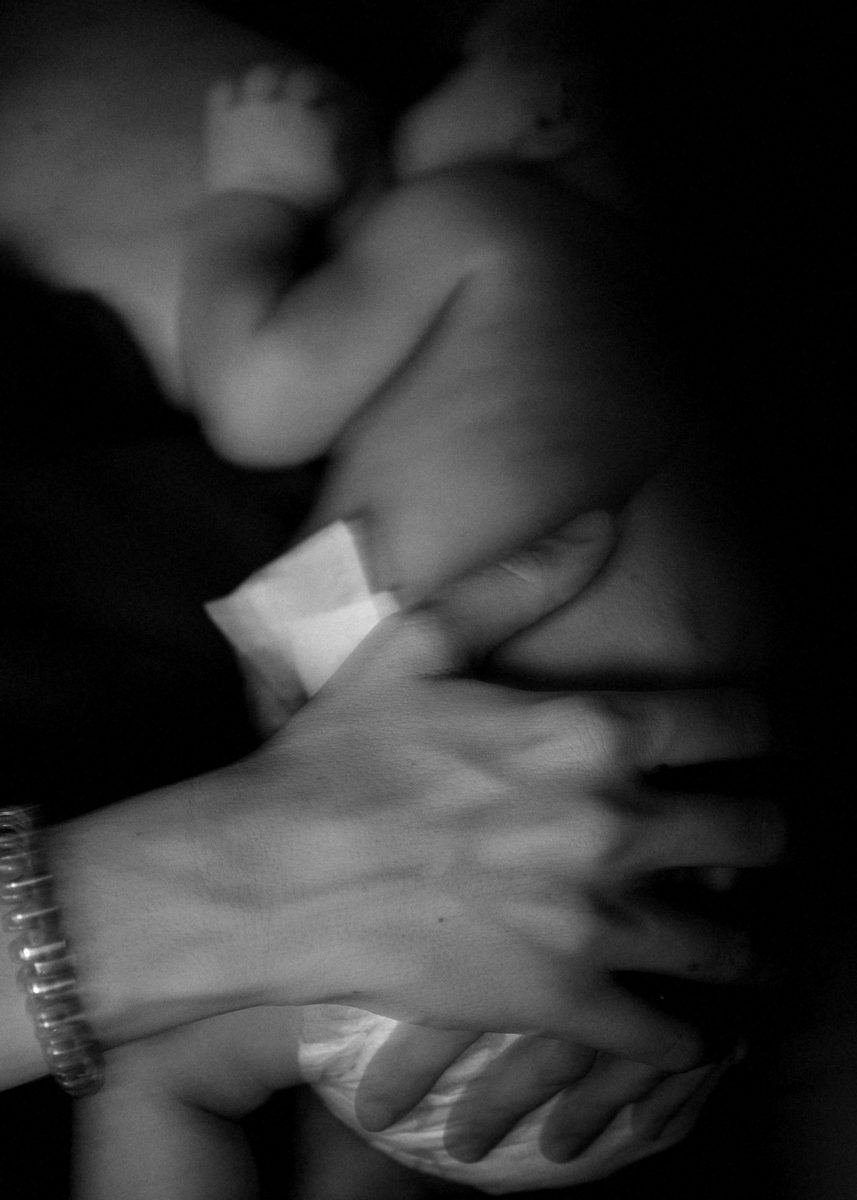
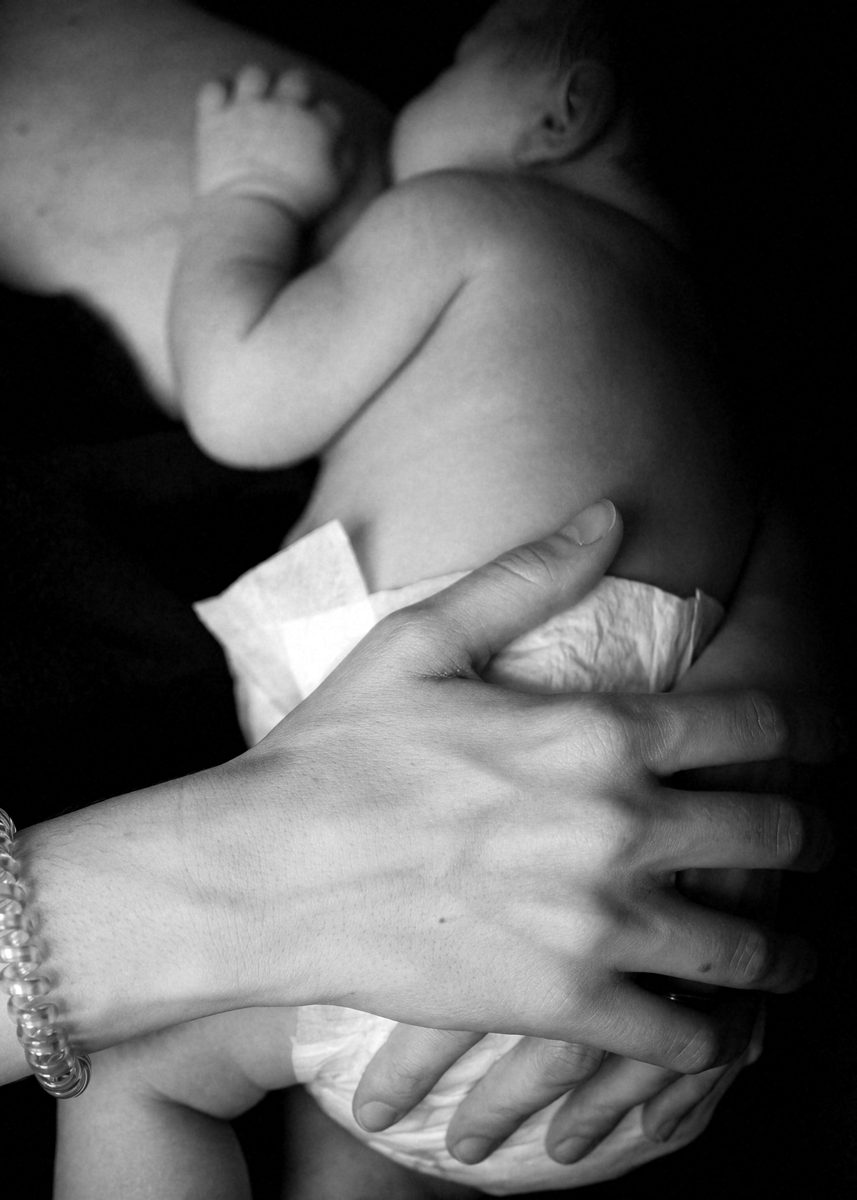
Pack redissenyat, fotos en color per defecte amb indicador B/N, barra fixa amb Inici/Contacte
Claude-Session: https://claude.ai/code/session_01Gu4fKh15S1mJkh4ThjJ3MW

diff --git a/index.html b/index.html
@@ -20,7 +20,7 @@
 <link rel="stylesheet" href="https://fonts.googleapis.com/css2?family=Inter:wght@500;600;700&display=swap">
 <style>
 *{box-sizing:border-box;margin:0;padding:0}
-html{background:#0a0a0a}
+html{background:#0a0a0a;scroll-behavior:smooth}
 img{-webkit-user-drag:none;user-select:none;-webkit-user-select:none;-webkit-touch-callout:none}
 body{background:#0a0a0a;color:#fff;font-family:Inter,system-ui,sans-serif;-webkit-font-smoothing:antialiased}
 .page{max-width:620px;margin:0 auto;container-type:inline-size;position:relative;background:#0a0a0a}
@@ -46,7 +46,8 @@ body{background:#0a0a0a;color:#fff;font-family:Inter,system-ui,sans-serif;-webki
 .toggle.lang button.on{background:none;color:#fff;opacity:1;text-decoration:underline;text-underline-offset:.35em}
 /* text blocks */
 .qui{padding-block:9cqw 8cqw}
-.qui h2{font-size:max(28px,5.2cqw);font-weight:700;letter-spacing:-.04em;line-height:1;margin:1.3cqw 0 3cqw}
+.qui .lb{margin-bottom:2.6cqw}
+.xx{font-size:max(28px,5.2cqw);font-weight:700;letter-spacing:-.04em;line-height:1;margin:1.3cqw 0 3cqw}
 .body{font-size:max(17px,3.35cqw);font-weight:500;line-height:1.38;letter-spacing:-.012em}
 .quote{margin-top:7cqw;padding-left:3.5cqw;border-left:1px solid rgba(255,255,255,.42)}
 .quote p{font-size:max(15px,2.8cqw);font-weight:500;line-height:1.38}
@@ -73,16 +74,26 @@ body{background:#0a0a0a;color:#fff;font-family:Inter,system-ui,sans-serif;-webki
 @media (hover:hover){.slider.multi:hover .nav{opacity:1}}
 .pair{display:grid;grid-template-columns:1fr 1fr;gap:1px;background:rgba(255,255,255,.42)}
 .pair .count{top:8px;right:8px}
+.sw{position:absolute;left:12px;bottom:12px;display:flex;align-items:center;gap:6px;border:0;background:rgba(10,10,10,.55);color:#fff;font:700 11px/1 Inter,sans-serif;letter-spacing:.08em;text-transform:uppercase;padding:6px 8px 5px 6px;cursor:pointer}
+.sw i{width:11px;height:11px;border-radius:50%;border:1.5px solid #fff;background:linear-gradient(90deg,#fff 50%,transparent 50%)}
+.pair .sw{left:8px;bottom:8px}
+.pair .dots{bottom:14px;justify-content:flex-end;padding-right:10px}
+.bar{position:fixed;top:0;left:50%;width:100%;max-width:620px;transform:translate(-50%,-100%);transition:transform .3s ease;z-index:40;background:rgba(10,10,10,.92);-webkit-backdrop-filter:blur(8px);backdrop-filter:blur(8px);border-bottom:1px solid rgba(255,255,255,.42);display:flex;align-items:center;justify-content:space-between;padding:12px 20px 11px}
+.bar.on{transform:translate(-50%,0)}
+.bar .wm{color:#fff;text-decoration:none;font-size:25px;font-weight:600;letter-spacing:-.055em;line-height:1;white-space:nowrap}
+.bar nav{display:flex;gap:16px}
+.bar nav a{color:#fff;text-decoration:none;font:700 11px/1 Inter,sans-serif;letter-spacing:.1em;text-transform:uppercase;opacity:.85}
 .hint{display:flex;align-items:center;gap:.6em;padding:3.4cqw 5.2cqw}
 /* pack */
-.pack{padding:6cqw 5.2cqw 7cqw}
-.pill{display:inline-block;background:#fff;color:#0a0a0a;font-size:max(12px,2.2cqw);font-weight:700;letter-spacing:.08em;text-transform:uppercase;padding:.5em .85em .45em;line-height:1.15}
-.prow{display:grid;grid-template-columns:54% 1fr;align-items:end}
-.price{font-size:24cqw;font-weight:600;letter-spacing:-.065em;line-height:1;white-space:nowrap;margin:1.5cqw 0 0 -1.1cqw}
-.sess{padding-bottom:4.2cqw}
-.sess .lb{margin-bottom:2cqw}
-.sess div:last-child{font-size:max(16px,3.7cqw);font-weight:600;letter-spacing:-.03em;line-height:1.14}
-.prow2{display:grid;grid-template-columns:54% 1fr;margin-top:4cqw}
+.pack{padding:7cqw 5.2cqw 8cqw}
+.pill{display:inline-block;background:#fff;color:#0a0a0a;font-size:max(12px,2.4cqw);font-weight:700;letter-spacing:.08em;text-transform:uppercase;padding:.5em .85em .45em;line-height:1.15}
+.prow{display:flex;align-items:stretch;gap:5cqw;margin-top:2.6cqw}
+.price{font-size:29cqw;font-weight:600;letter-spacing:-.065em;line-height:.8;white-space:nowrap;margin-left:-1.3cqw;padding-top:2.6cqw}
+.pinfo{display:flex;flex-direction:column;justify-content:space-between;padding:2.9cqw 0 .4cqw}
+.pinfo .sm{font-size:max(13px,2.75cqw)}
+.ptypes{margin-top:6cqw;padding-top:4cqw;border-top:1px solid rgba(255,255,255,.42)}
+.ptypes .lb{margin-bottom:2.2cqw}
+.ptypes div:last-child{font-size:4.25cqw;font-weight:600;letter-spacing:-.03em;line-height:1.1;white-space:nowrap}
 /* contact */
 .contact{padding-block:7cqw 9cqw}
 .contact .lb{margin:2.4cqw 0 1.4cqw}
@@ -104,7 +115,8 @@ button.big{background:none;border:0;padding:0;font-family:inherit;text-align:lef
 </style>
 </head>
 <body>
-<main class="page">
+<header class="bar" aria-hidden="true"><a class="wm" href="#inici">Pau Fotografia</a><nav><a href="#inici" data-t="inici">Inici</a><a href="#contacte" data-t="cont">Contacte</a></nav></header>
+<main class="page" id="inici">
   <section class="hero">
     <img src="/pack/hero.jpg" alt="Pau amb ulleres, fons desenfocat i una finestra nítida sobre mig rostre" fetchpriority="high">
     <div class="top"><div class="sm" data-t="tag">Fotògraf social i documental</div>
@@ -113,32 +125,31 @@ button.big{background:none;border:0;padding:0;font-family:inherit;text-align:lef
   </section>
   <section class="qui pad">
     <div class="lb" data-t="qui">Qui sóc</div>
-    <h2 data-t="soc">Soc en Pau.</h2>
     <p class="body" data-t="qs">Sociòleg de formació i fotògraf de vocació. M'apassiona la fotografia i el seu poder per conservar records, explicar històries i documentar l'entorn de manera autèntica.</p>
     <div class="quote"><p data-t="quote">«Si pogués explicar la història amb paraules, no hauria de carregar amb una càmera.»</p><div class="lb">Lewis Hine</div></div>
   </section>
   <div class="hl"></div>
-  <div class="slider multi" style="aspect-ratio:1080/1150"><div class="track"><figure class="slide"><img class="b" data-v="elvi" src="/pack/elvi-bn.jpg" alt="Elvi somrient amb un floc de cabell davant la cara" loading="eager" style="object-position:50% 38%"><img class="o" data-v="elvi" alt="" aria-hidden="true" style="object-position:50% 38%"></figure><figure class="slide"><img class="b" data-v="elvi-01" src="/pack/elvi-01-bn.jpg" alt="Elvi amb les mans als cabells" loading="lazy" style="object-position:50% 30%"><img class="o" data-v="elvi-01" alt="" aria-hidden="true" style="object-position:50% 30%"></figure><figure class="slide"><img class="b" data-v="elvi-03" src="/pack/elvi-03-bn.jpg" alt="Elvi mirant de reüll" loading="lazy" style="object-position:50% 30%"><img class="o" data-v="elvi-03" alt="" aria-hidden="true" style="object-position:50% 30%"></figure><figure class="slide"><img class="b" data-v="elvi-04" src="/pack/elvi-04-bn.jpg" alt="Elvi de perfil a la finestra" loading="lazy" style="object-position:50% 30%"><img class="o" data-v="elvi-04" alt="" aria-hidden="true" style="object-position:50% 30%"></figure><figure class="slide"><img class="b" data-v="elvi-05" src="/pack/elvi-05-bn.jpg" alt="Elvi amb la llum de la cortina" loading="lazy" style="object-position:50% 30%"><img class="o" data-v="elvi-05" alt="" aria-hidden="true" style="object-position:50% 30%"></figure></div><div class="dots"><i class=on></i><i></i><i></i><i></i><i></i></div><div class="count">1/5</div><button class="nav prev" aria-label="Anterior">‹</button><button class="nav next" aria-label="Següent">›</button></div>
+  <div class="slider multi" style="aspect-ratio:1080/1150"><div class="track"><figure class="slide"><img class="b" data-v="elvi" src="/pack/elvi-color.jpg" alt="Elvi somrient amb un floc de cabell davant la cara" loading="eager" style="object-position:50% 38%"><img class="o" data-v="elvi" alt="" aria-hidden="true" style="object-position:50% 38%"><button class="sw" type="button" aria-label="Color / B/N"><i></i><span>B/N</span></button></figure><figure class="slide"><img class="b" data-v="elvi-01" src="/pack/elvi-01-color.jpg" alt="Elvi amb les mans als cabells" loading="lazy" style="object-position:50% 30%"><img class="o" data-v="elvi-01" alt="" aria-hidden="true" style="object-position:50% 30%"><button class="sw" type="button" aria-label="Color / B/N"><i></i><span>B/N</span></button></figure><figure class="slide"><img class="b" data-v="elvi-03" src="/pack/elvi-03-color.jpg" alt="Elvi mirant de reüll" loading="lazy" style="object-position:50% 30%"><img class="o" data-v="elvi-03" alt="" aria-hidden="true" style="object-position:50% 30%"><button class="sw" type="button" aria-label="Color / B/N"><i></i><span>B/N</span></button></figure><figure class="slide"><img class="b" data-v="elvi-04" src="/pack/elvi-04-color.jpg" alt="Elvi de perfil a la finestra" loading="lazy" style="object-position:50% 30%"><img class="o" data-v="elvi-04" alt="" aria-hidden="true" style="object-position:50% 30%"><button class="sw" type="button" aria-label="Color / B/N"><i></i><span>B/N</span></button></figure><figure class="slide"><img class="b" data-v="elvi-05" src="/pack/elvi-05-color.jpg" alt="Elvi amb la llum de la cortina" loading="lazy" style="object-position:50% 30%"><img class="o" data-v="elvi-05" alt="" aria-hidden="true" style="object-position:50% 30%"><button class="sw" type="button" aria-label="Color / B/N"><i></i><span>B/N</span></button></figure></div><div class="dots"><i class=on></i><i></i><i></i><i></i><i></i></div><div class="count">1/5</div><button class="nav prev" aria-label="Anterior">‹</button><button class="nav next" aria-label="Següent">›</button></div>
   <div class="hl"></div>
   <section class="com pad">
     <div class="lb" data-t="com">Com treballo</div>
     <p class="body" data-t="ct">Sense estudi, als llocs quotidians i còmodes, sense decorats. Tu tries l'espai i el vestuari. Jo m'adapto i interfereixo el mínim perquè la càmera no sigui un obstacle per captar aquell gest, somriure o mirada espontània i real.</p>
   </section>
   <div class="hl"></div>
-  <div class="pair"><div class="slider multi" style="aspect-ratio:540/720"><div class="track"><figure class="slide"><img class="b" data-v="nuvis" src="/pack/nuvis-bn.jpg" alt="Parella de nuvis rient a la porta" loading="lazy" style="object-position:50% 50%"><img class="o" data-v="nuvis" alt="" aria-hidden="true" style="object-position:50% 50%"></figure><figure class="slide"><img class="b" data-v="casament-pandemia-05" src="/pack/casament-pandemia-05-bn.jpg" alt="Nuvis amb mascareta" loading="lazy" style="object-position:50% 50%"><img class="o" data-v="casament-pandemia-05" alt="" aria-hidden="true" style="object-position:50% 50%"></figure><figure class="slide mono"><img class="b" data-v="casament-pandemia-02" src="/pack/casament-pandemia-02-bn.jpg" alt="Ajustant el vestit" loading="lazy" style="object-position:50% 30%"></figure><figure class="slide mono"><img class="b" data-v="casament-pandemia-04" src="/pack/casament-pandemia-04-bn.jpg" alt="Sortida entre arròs" loading="lazy" style="object-position:50% 50%"></figure><figure class="slide mono"><img class="b" data-v="casament-pandemia-08" src="/pack/casament-pandemia-08-bn.jpg" alt="La cerimònia" loading="lazy" style="object-position:50% 50%"></figure><figure class="slide mono"><img class="b" data-v="casament-pandemia-01" src="/pack/casament-pandemia-01-bn.jpg" alt="Pentinat davant del mirall" loading="lazy" style="object-position:50% 50%"></figure></div><div class="dots"><i class=on></i><i></i><i></i><i></i><i></i><i></i></div><div class="count">1/6</div><button class="nav prev" aria-label="Anterior">‹</button><button class="nav next" aria-label="Següent">›</button></div><div class="slider multi" style="aspect-ratio:540/720"><div class="track"><figure class="slide"><img class="b" data-v="maneta" src="/pack/maneta-bn.jpg" alt="Mà d’un nadó sobre la pell" loading="lazy" style="object-position:50% 50%"><img class="o" data-v="maneta" alt="" aria-hidden="true" style="object-position:50% 50%"></figure><figure class="slide mono"><img class="b" data-v="familia-05" src="/pack/familia-05-bn.jpg" alt="Peus petits" loading="lazy" style="object-position:50% 50%"></figure><figure class="slide mono"><img class="b" data-v="familia-07" src="/pack/familia-07-bn.jpg" alt="La mà a l’esquena" loading="lazy" style="object-position:50% 50%"></figure></div><div class="dots"><i class=on></i><i></i><i></i></div><div class="count">1/3</div><button class="nav prev" aria-label="Anterior">‹</button><button class="nav next" aria-label="Següent">›</button></div></div>
+  <div class="pair"><div class="slider multi" style="aspect-ratio:540/720"><div class="track"><figure class="slide"><img class="b" data-v="nuvis" src="/pack/nuvis-color.jpg" alt="Parella de nuvis rient a la porta" loading="lazy" style="object-position:50% 50%"><img class="o" data-v="nuvis" alt="" aria-hidden="true" style="object-position:50% 50%"><button class="sw" type="button" aria-label="Color / B/N"><i></i><span>B/N</span></button></figure><figure class="slide"><img class="b" data-v="casament-pandemia-05" src="/pack/casament-pandemia-05-color.jpg" alt="Nuvis amb mascareta" loading="lazy" style="object-position:50% 50%"><img class="o" data-v="casament-pandemia-05" alt="" aria-hidden="true" style="object-position:50% 50%"><button class="sw" type="button" aria-label="Color / B/N"><i></i><span>B/N</span></button></figure><figure class="slide"><img class="b" data-v="casament-pandemia-02" src="/pack/casament-pandemia-02-color.jpg" alt="Ajustant el vestit" loading="lazy" style="object-position:50% 30%"><img class="o" data-v="casament-pandemia-02" alt="" aria-hidden="true" style="object-position:50% 30%"><button class="sw" type="button" aria-label="Color / B/N"><i></i><span>B/N</span></button></figure><figure class="slide mono"><img class="b" data-v="casament-pandemia-04" src="/pack/casament-pandemia-04-bn.jpg" alt="Sortida entre arròs" loading="lazy" style="object-position:50% 50%"></figure><figure class="slide mono"><img class="b" data-v="casament-pandemia-08" src="/pack/casament-pandemia-08-bn.jpg" alt="La cerimònia" loading="lazy" style="object-position:50% 50%"></figure><figure class="slide mono"><img class="b" data-v="casament-pandemia-01" src="/pack/casament-pandemia-01-bn.jpg" alt="Pentinat davant del mirall" loading="lazy" style="object-position:50% 50%"></figure></div><div class="dots"><i class=on></i><i></i><i></i><i></i><i></i><i></i></div><div class="count">1/6</div><button class="nav prev" aria-label="Anterior">‹</button><button class="nav next" aria-label="Següent">›</button></div><div class="slider multi" style="aspect-ratio:540/720"><div class="track"><figure class="slide"><img class="b" data-v="maneta" src="/pack/maneta-color.jpg" alt="Mà d’un nadó sobre la pell" loading="lazy" style="object-position:50% 50%"><img class="o" data-v="maneta" alt="" aria-hidden="true" style="object-position:50% 50%"><button class="sw" type="button" aria-label="Color / B/N"><i></i><span>B/N</span></button></figure><figure class="slide mono"><img class="b" data-v="familia-05" src="/pack/familia-05-bn.jpg" alt="Peus petits" loading="lazy" style="object-position:50% 50%"></figure><figure class="slide"><img class="b" data-v="familia-07" src="/pack/familia-07-color.jpg" alt="La mà a l’esquena" loading="lazy" style="object-position:50% 50%"><img class="o" data-v="familia-07" alt="" aria-hidden="true" style="object-position:50% 50%"><button class="sw" type="button" aria-label="Color / B/N"><i></i><span>B/N</span></button></figure></div><div class="dots"><i class=on></i><i></i><i></i></div><div class="count">1/3</div><button class="nav prev" aria-label="Anterior">‹</button><button class="nav next" aria-label="Següent">›</button></div></div>
   <div class="hl"></div>
   <section class="pack">
     <div class="pill" data-t="pack">Pack promocional</div>
     <div class="prow"><div class="price">85 €</div>
-      <div class="sess"><div class="lb" data-t="sess">Sessions</div><div data-t="tipus">Retrat · Família<br>Embaràs · Parella</div></div></div>
-    <div class="prow2"><div class="sm" data-t="dur">Per sessió<br>45 min – 1 h</div><div class="sm" data-t="ent">Entrega de<br>15 a 25 fotografies</div></div>
+      <div class="pinfo"><div class="sm" data-t="dur">Per sessió<br>45 min – 1 h</div><div class="sm" data-t="ent">Entrega de<br>15 a 25 fotografies</div></div></div>
+    <div class="ptypes"><div class="lb" data-t="sess">Sessions</div><div data-t="tipus">Retrat · Família · Embaràs · Parella</div></div>
   </section>
   <div class="hl"></div>
-  <div class="slider" style="aspect-ratio:1080/720"><div class="track"><figure class="slide"><img class="b" data-v="mocador" src="/pack/mocador-bn.jpg" alt="Retrat d’una dona amb mocador entre el fum" loading="lazy" style="object-position:50% 40%"><img class="o" data-v="mocador" alt="" aria-hidden="true" style="object-position:50% 40%"></figure></div></div>
+  <div class="slider" style="aspect-ratio:1080/720"><div class="track"><figure class="slide"><img class="b" data-v="mocador" src="/pack/mocador-color.jpg" alt="Retrat d’una dona amb mocador entre el fum" loading="lazy" style="object-position:50% 40%"><img class="o" data-v="mocador" alt="" aria-hidden="true" style="object-position:50% 40%"><button class="sw" type="button" aria-label="Color / B/N"><i></i><span>B/N</span></button></figure></div></div>
   <div class="hl"></div>
-  <div class="pair"><div class="slider multi" style="aspect-ratio:540/720"><div class="track"><figure class="slide"><img class="b" data-v="ulleres" src="/pack/ulleres-bn.jpg" alt="Home rient amb ulleres de sol" loading="lazy" style="object-position:50% 50%"><img class="o" data-v="ulleres" alt="" aria-hidden="true" style="object-position:50% 50%"></figure><figure class="slide"><img class="b" data-v="llum-desembre-05" src="/pack/llum-desembre-05-bn.jpg" alt="Cara al sol" loading="lazy" style="object-position:64% 50%"><img class="o" data-v="llum-desembre-05" alt="" aria-hidden="true" style="object-position:64% 50%"></figure><figure class="slide"><img class="b" data-v="llum-desembre-02" src="/pack/llum-desembre-02-bn.jpg" alt="Somriure amb caputxa" loading="lazy" style="object-position:52% 50%"><img class="o" data-v="llum-desembre-02" alt="" aria-hidden="true" style="object-position:52% 50%"></figure><figure class="slide"><img class="b" data-v="llum-desembre-04" src="/pack/llum-desembre-04-bn.jpg" alt="Per sobre de les ulleres" loading="lazy" style="object-position:56% 50%"><img class="o" data-v="llum-desembre-04" alt="" aria-hidden="true" style="object-position:56% 50%"></figure><figure class="slide"><img class="b" data-v="llum-desembre-01" src="/pack/llum-desembre-01-bn.jpg" alt="Mitja cara a la llum" loading="lazy" style="object-position:54% 50%"><img class="o" data-v="llum-desembre-01" alt="" aria-hidden="true" style="object-position:54% 50%"></figure></div><div class="dots"><i class=on></i><i></i><i></i><i></i><i></i></div><div class="count">1/5</div><button class="nav prev" aria-label="Anterior">‹</button><button class="nav next" aria-label="Següent">›</button></div><div class="slider multi" style="aspect-ratio:540/720"><div class="track"><figure class="slide"><img class="b" data-v="confeti" src="/pack/confeti-bn.jpg" alt="Nuvis sortint entre confeti amb el ram a l’aire" loading="lazy" style="object-position:64% 50%"><img class="o" data-v="confeti" alt="" aria-hidden="true" style="object-position:64% 50%"></figure><figure class="slide"><img class="b" data-v="casament-01" src="/pack/casament-01-bn.jpg" alt="Sortida entre confeti" loading="lazy" style="object-position:55% 50%"><img class="o" data-v="casament-01" alt="" aria-hidden="true" style="object-position:55% 50%"></figure></div><div class="dots"><i class=on></i><i></i></div><div class="count">1/2</div><button class="nav prev" aria-label="Anterior">‹</button><button class="nav next" aria-label="Següent">›</button></div></div>
+  <div class="pair"><div class="slider multi" style="aspect-ratio:540/720"><div class="track"><figure class="slide"><img class="b" data-v="ulleres" src="/pack/ulleres-color.jpg" alt="Home rient amb ulleres de sol" loading="lazy" style="object-position:50% 50%"><img class="o" data-v="ulleres" alt="" aria-hidden="true" style="object-position:50% 50%"><button class="sw" type="button" aria-label="Color / B/N"><i></i><span>B/N</span></button></figure><figure class="slide"><img class="b" data-v="llum-desembre-05" src="/pack/llum-desembre-05-color.jpg" alt="Cara al sol" loading="lazy" style="object-position:64% 50%"><img class="o" data-v="llum-desembre-05" alt="" aria-hidden="true" style="object-position:64% 50%"><button class="sw" type="button" aria-label="Color / B/N"><i></i><span>B/N</span></button></figure><figure class="slide"><img class="b" data-v="llum-desembre-02" src="/pack/llum-desembre-02-color.jpg" alt="Somriure amb caputxa" loading="lazy" style="object-position:52% 50%"><img class="o" data-v="llum-desembre-02" alt="" aria-hidden="true" style="object-position:52% 50%"><button class="sw" type="button" aria-label="Color / B/N"><i></i><span>B/N</span></button></figure><figure class="slide"><img class="b" data-v="llum-desembre-04" src="/pack/llum-desembre-04-color.jpg" alt="Per sobre de les ulleres" loading="lazy" style="object-position:56% 50%"><img class="o" data-v="llum-desembre-04" alt="" aria-hidden="true" style="object-position:56% 50%"><button class="sw" type="button" aria-label="Color / B/N"><i></i><span>B/N</span></button></figure><figure class="slide"><img class="b" data-v="llum-desembre-01" src="/pack/llum-desembre-01-color.jpg" alt="Mitja cara a la llum" loading="lazy" style="object-position:54% 50%"><img class="o" data-v="llum-desembre-01" alt="" aria-hidden="true" style="object-position:54% 50%"><button class="sw" type="button" aria-label="Color / B/N"><i></i><span>B/N</span></button></figure></div><div class="dots"><i class=on></i><i></i><i></i><i></i><i></i></div><div class="count">1/5</div><button class="nav prev" aria-label="Anterior">‹</button><button class="nav next" aria-label="Següent">›</button></div><div class="slider multi" style="aspect-ratio:540/720"><div class="track"><figure class="slide"><img class="b" data-v="confeti" src="/pack/confeti-color.jpg" alt="Nuvis sortint entre confeti amb el ram a l’aire" loading="lazy" style="object-position:64% 50%"><img class="o" data-v="confeti" alt="" aria-hidden="true" style="object-position:64% 50%"><button class="sw" type="button" aria-label="Color / B/N"><i></i><span>B/N</span></button></figure><figure class="slide"><img class="b" data-v="casament-01" src="/pack/casament-01-color.jpg" alt="Sortida entre confeti" loading="lazy" style="object-position:55% 50%"><img class="o" data-v="casament-01" alt="" aria-hidden="true" style="object-position:55% 50%"><button class="sw" type="button" aria-label="Color / B/N"><i></i><span>B/N</span></button></figure></div><div class="dots"><i class=on></i><i></i></div><div class="count">1/2</div><button class="nav prev" aria-label="Anterior">‹</button><button class="nav next" aria-label="Següent">›</button></div></div>
   <div class="hl"></div>
-  <section class="contact pad">
+  <section class="contact pad" id="contacte">
     <div class="sm">Llinars del Vallès</div>
     <div class="lb" data-t="cont">Contacte</div>
     <button class="big copy" type="button" data-copy="pau.rp92@gmail.com">pau.rp92@gmail.com<span class="tip" data-t="ok" aria-live="polite">Copiat</span></button>
@@ -155,7 +166,7 @@ document.querySelectorAll('.slider.multi').forEach(function(s){
   s.querySelector('.prev').onclick=function(){t.scrollTo({left:Math.max(0,idx()-1)*t.clientWidth,behavior:'smooth'})};
   s.querySelector('.next').onclick=function(){t.scrollTo({left:Math.min(n-1,idx()+1)*t.clientWidth,behavior:'smooth'})};
 });
-var MODE='bn';
+var MODE='color';
 function other(){return MODE==='bn'?'color':'bn'}
 function src2(o){return '/pack/'+o.dataset.v+'-'+other()+'.jpg'}
 function setX(f,x,anim){
@@ -165,8 +176,11 @@ function setX(f,x,anim){
 }
 document.querySelectorAll('.slide:not(.mono)').forEach(function(f){
   f._x=100;
-  f.querySelector('.b').addEventListener('click',function(){setX(f,f._x>=50?0:100,true)});
+  function tg(){setX(f,f._x>=50?0:100,true);f.querySelector('.sw span').textContent=f._x<50?'Color':'B/N';f.classList.toggle('alt',f._x<50)}
+  f.querySelector('.b').addEventListener('click',tg);f.querySelector('.sw').addEventListener('click',tg);
 });
+(function(){var bar=document.querySelector('.bar'),h=document.querySelector('.hero h1');
+  new IntersectionObserver(function(e){var on=!e[0].isIntersecting&&e[0].boundingClientRect.top<0;bar.classList.toggle('on',on);bar.setAttribute('aria-hidden',String(!on))}).observe(h);})();
 document.addEventListener('contextmenu',function(e){if(e.target.closest('img,.slide,.hero'))e.preventDefault()});
 document.addEventListener('dragstart',function(e){if(e.target.closest('img'))e.preventDefault()});
 document.querySelectorAll('.copy').forEach(function(b){b.onclick=function(){
@@ -180,8 +194,8 @@ document.querySelectorAll('.copy').forEach(function(b){b.onclick=function(){
   document.addEventListener('click',function(e){if(!p.contains(e.target)){m.hidden=true;b.setAttribute('aria-expanded','false')}});
 })();
 var T={
- es:{tag:"Fotógrafo social y documental",qui:"Quién soy",soc:"Soy Pau.",qs:"Sociólogo de formación y fotógrafo de vocación. Me apasiona la fotografía y su poder para conservar recuerdos, contar historias y documentar el entorno de manera auténtica.",quote:"«Si pudiera contar la historia con palabras, no necesitaría cargar con una cámara.»",com:"Cómo trabajo",ct:"Sin estudio, en lugares cotidianos y cómodos, sin decorados. Tú eliges el espacio y el vestuario. Yo me adapto e interfiero lo mínimo para que la cámara no sea un obstáculo a la hora de captar ese gesto, sonrisa o mirada espontánea y real.",pack:"Pack promocional",sess:"Sesiones",tipus:"Retrato · Familia<br>Embarazo · Pareja",dur:"Por sesión<br>45 min – 1 h",ent:"Entrega de<br>15 a 25 fotografías",cont:"Contacto",call:"Llamar",ok:"Copiado"},
- en:{tag:"Social and documentary photographer",qui:"About me",soc:"I'm Pau.",qs:"Sociologist by training, photographer by calling. I love photography and its power to preserve memories, tell stories and document the world around us authentically.",quote:"“If I could tell the story in words, I wouldn't need to lug a camera.”",com:"How I work",ct:"No studio: everyday, comfortable places, no sets. You choose the place and the outfit. I adapt and interfere as little as possible, so the camera never gets in the way of that spontaneous, genuine gesture, smile or look.",pack:"Promotional pack",sess:"Sessions",tipus:"Portrait · Family<br>Pregnancy · Couple",dur:"Per session<br>45 min – 1 h",ent:"Delivery of<br>15 to 25 photographs",cont:"Contact",call:"Call",ok:"Copied"}
+ es:{tag:"Fotógrafo social y documental",qui:"Quién soy",soc:"Soy Pau.",qs:"Sociólogo de formación y fotógrafo de vocación. Me apasiona la fotografía y su poder para conservar recuerdos, contar historias y documentar el entorno de manera auténtica.",quote:"«Si pudiera contar la historia con palabras, no necesitaría cargar con una cámara.»",com:"Cómo trabajo",ct:"Sin estudio, en lugares cotidianos y cómodos, sin decorados. Tú eliges el espacio y el vestuario. Yo me adapto e interfiero lo mínimo para que la cámara no sea un obstáculo a la hora de captar ese gesto, sonrisa o mirada espontánea y real.",pack:"Pack promocional",sess:"Sesiones",tipus:"Retrato · Familia · Embarazo · Pareja",dur:"Por sesión<br>45 min – 1 h",ent:"Entrega de<br>15 a 25 fotografías",cont:"Contacto",inici:"Inicio",call:"Llamar",ok:"Copiado"},
+ en:{tag:"Social and documentary photographer",qui:"About me",soc:"I'm Pau.",qs:"Sociologist by training, photographer by calling. I love photography and its power to preserve memories, tell stories and document the world around us authentically.",quote:"“If I could tell the story in words, I wouldn't need to lug a camera.”",com:"How I work",ct:"No studio: everyday, comfortable places, no sets. You choose the place and the outfit. I adapt and interfere as little as possible, so the camera never gets in the way of that spontaneous, genuine gesture, smile or look.",pack:"Promotional pack",sess:"Sessions",tipus:"Portrait · Family · Pregnancy · Couple",dur:"Per session<br>45 min – 1 h",ent:"Delivery of<br>15 to 25 photographs",cont:"Contact",inici:"Top",call:"Call",ok:"Copied"}
 };
 T.ca={};document.querySelectorAll('[data-t]').forEach(function(e){T.ca[e.dataset.t]=e.innerHTML});
 function setLang(l){if(!T[l])l='ca';
